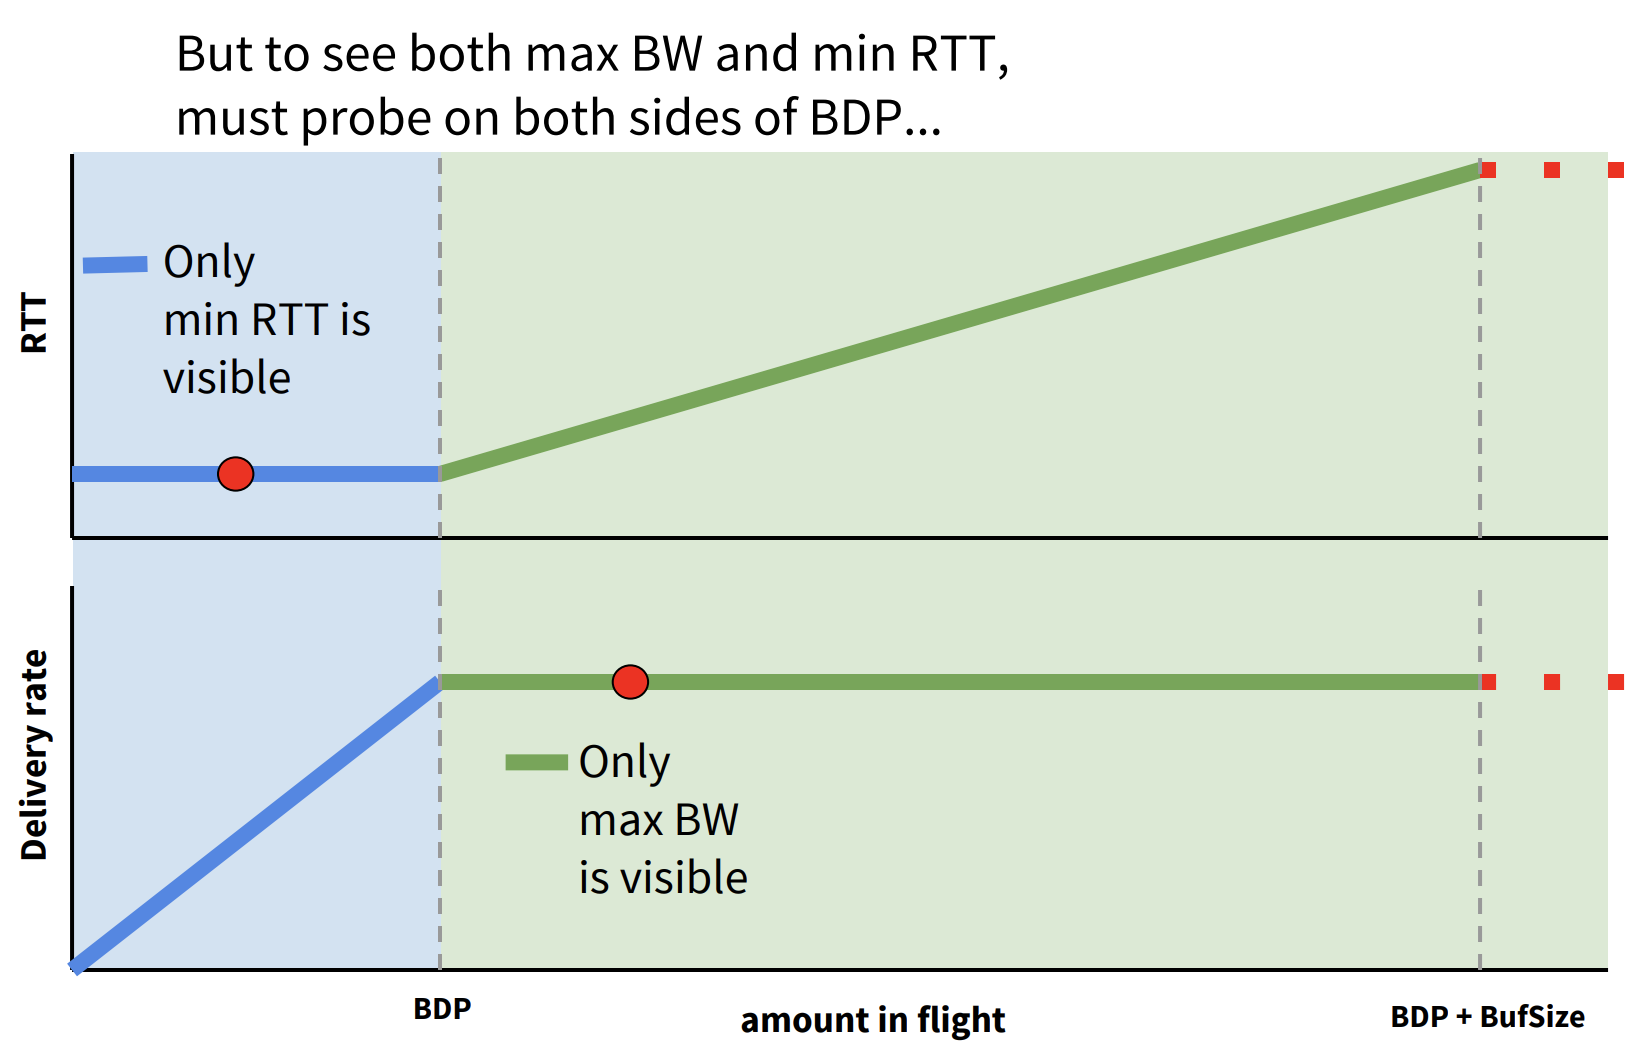
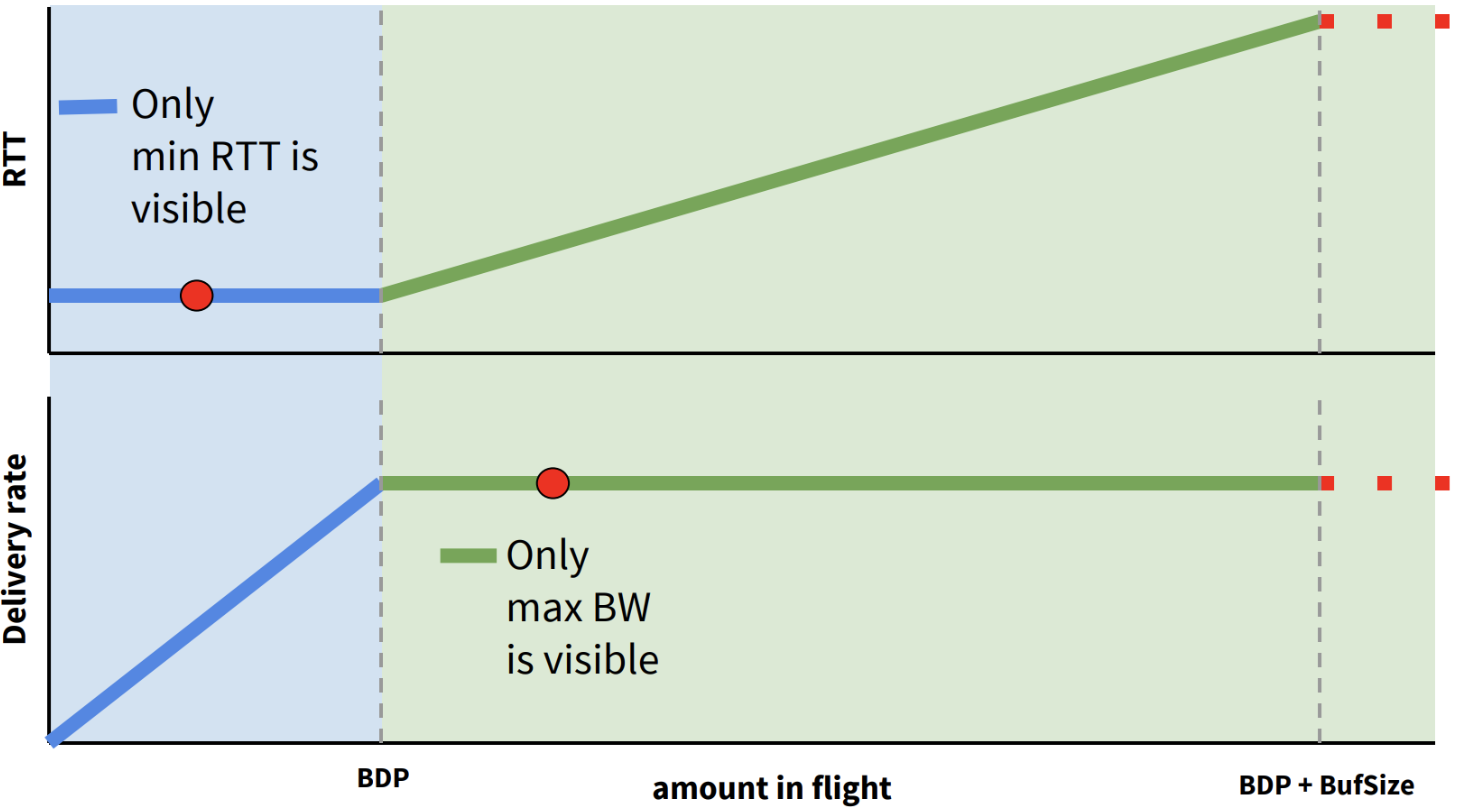
更新拥塞控制

diff --git a/http/congestion-control.md b/http/congestion-control.md
@@ -1,8 +1,8 @@
 # 2.6.1 网络拥塞控制原理
 
-Google 曾在 ACM 杂志上发布过一篇论文《BBR: Congestion-Based Congestion Control》，论文主要介绍了 BBR 算法的设计，内容中一张配图（图 2-22）形象说明了网络拥塞的产生和控制逻辑。
-
 ## 1. 网络拥塞的产生与控制逻辑
+
+Google 曾在 ACM 杂志上发布过一篇论文《BBR: Congestion-Based Congestion Control》，论文主要介绍了 BBR 算法的设计，内容中一张配图（图 2-22）形象说明了网络拥塞的产生和控制逻辑。
 
 :::center
   ![](../assets/bbr-cc.png)<br/>
@@ -57,7 +57,7 @@ Google 曾在 ACM 杂志上发布过一篇论文《BBR: Congestion-Based Congest
 
 :::center
   ![](../assets/bbr-2.png)<br/>
- 图 2-24 估计最优工作点 (max BW , min RTT)
+ 图 2-24 无法同时得到 max BW 和 min RTT
 :::
 
 ## 3. BBR 的解题思路以及状态机设计

diff --git a/http/bbr.md b/http/bbr.md
@@ -1,4 +1,4 @@
-# 2.6.2 BBR 的实践
+# 2.6.2 BBR 的实践及性能报告
 
 Linux 内核从 4.9 开始集成了 BBR 拥塞控制算法，只要几个简单的命令就能开启 BBR 提升网络吞吐。
 
